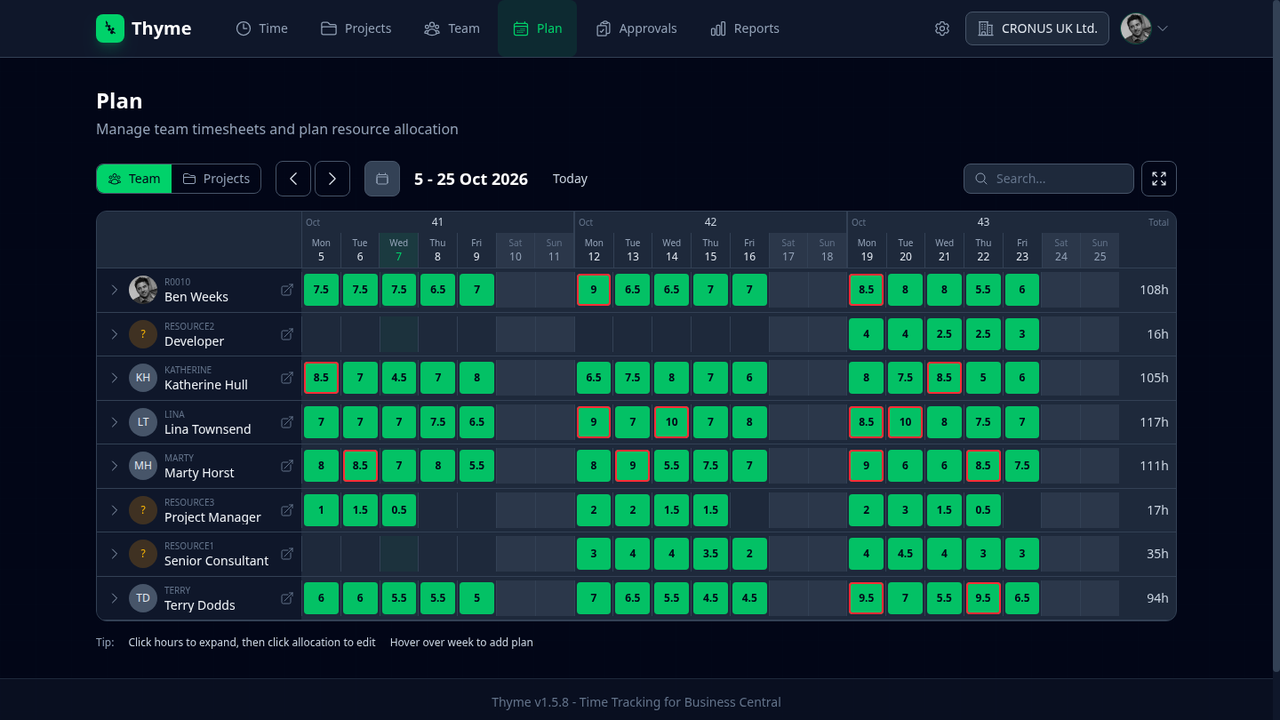
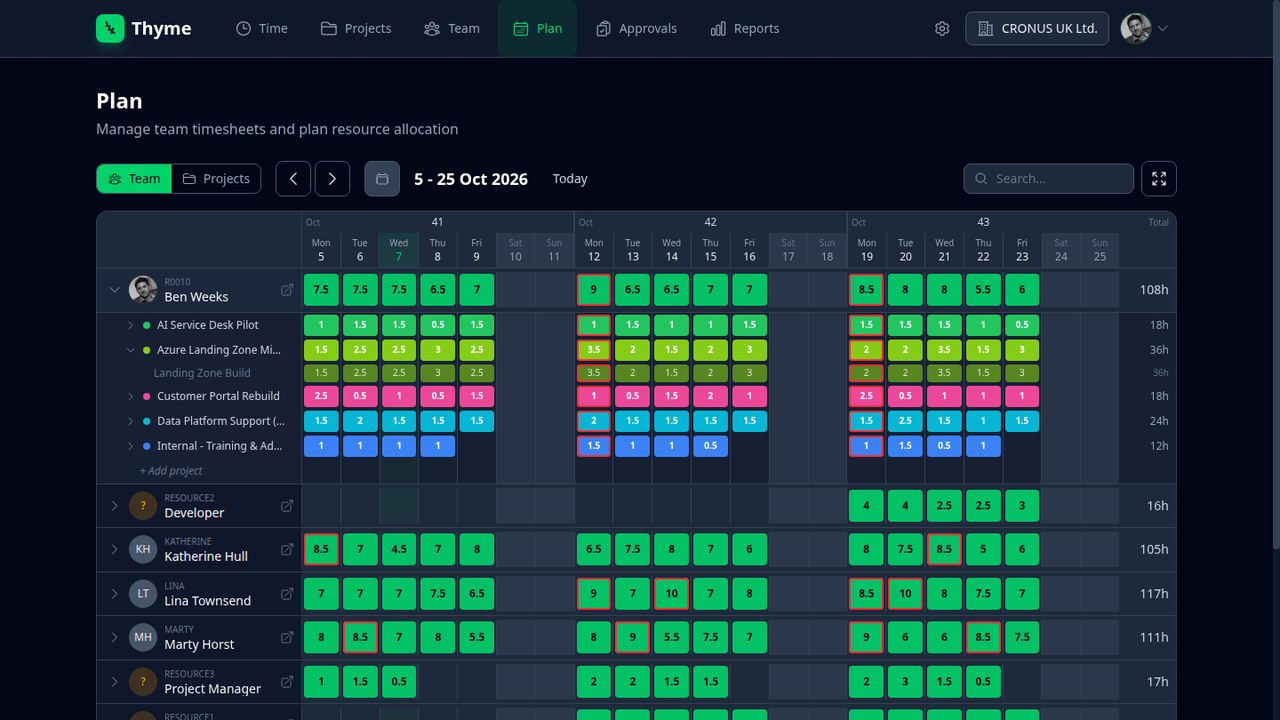
docs: show expanded views in the homepage screenshots
Retake the Plan, Approvals and Projects slides with their expandable UI
open: a person's allocations by project and task, a submitted week with
the daily-hours strip and line grid, and the project detail cards.
Update the Projects caption and the alt text to match.

Fixes #285

diff --git a/src/components/landing/ScreenshotCarousel.tsx b/src/components/landing/ScreenshotCarousel.tsx
@@ -20,9 +20,10 @@ const screenshots: Screenshot[] = [
   },
   {
     src: '/screenshots/projects.png',
-    alt: 'Projects list from Business Central with planned, spent and remaining hours',
+    alt: 'Project details with estimate, time spent by stage, plan, forecast and cost cards',
     title: 'Projects',
-    description: 'Browse your Business Central projects with planned, spent and remaining hours.',
+    description:
+      "Track every project's estimate, time spent, plan and costs from Business Central.",
   },
   {
     src: '/screenshots/team.png',
@@ -32,13 +33,13 @@ const screenshots: Screenshot[] = [
   },
   {
     src: '/screenshots/plan.png',
-    alt: 'Resource planning and scheduling',
+    alt: 'Resource plan with a person expanded to show daily allocations by project and task',
     title: 'Plan',
     description: 'Plan and schedule resources across projects with a visual timeline.',
   },
   {
     src: '/screenshots/approvals.png',
-    alt: 'Timesheet approval workflow',
+    alt: 'Submitted timesheet expanded with daily hours and lines by project',
     title: 'Approvals',
     description: 'Managers can review and approve team timesheets with one click.',
   },
